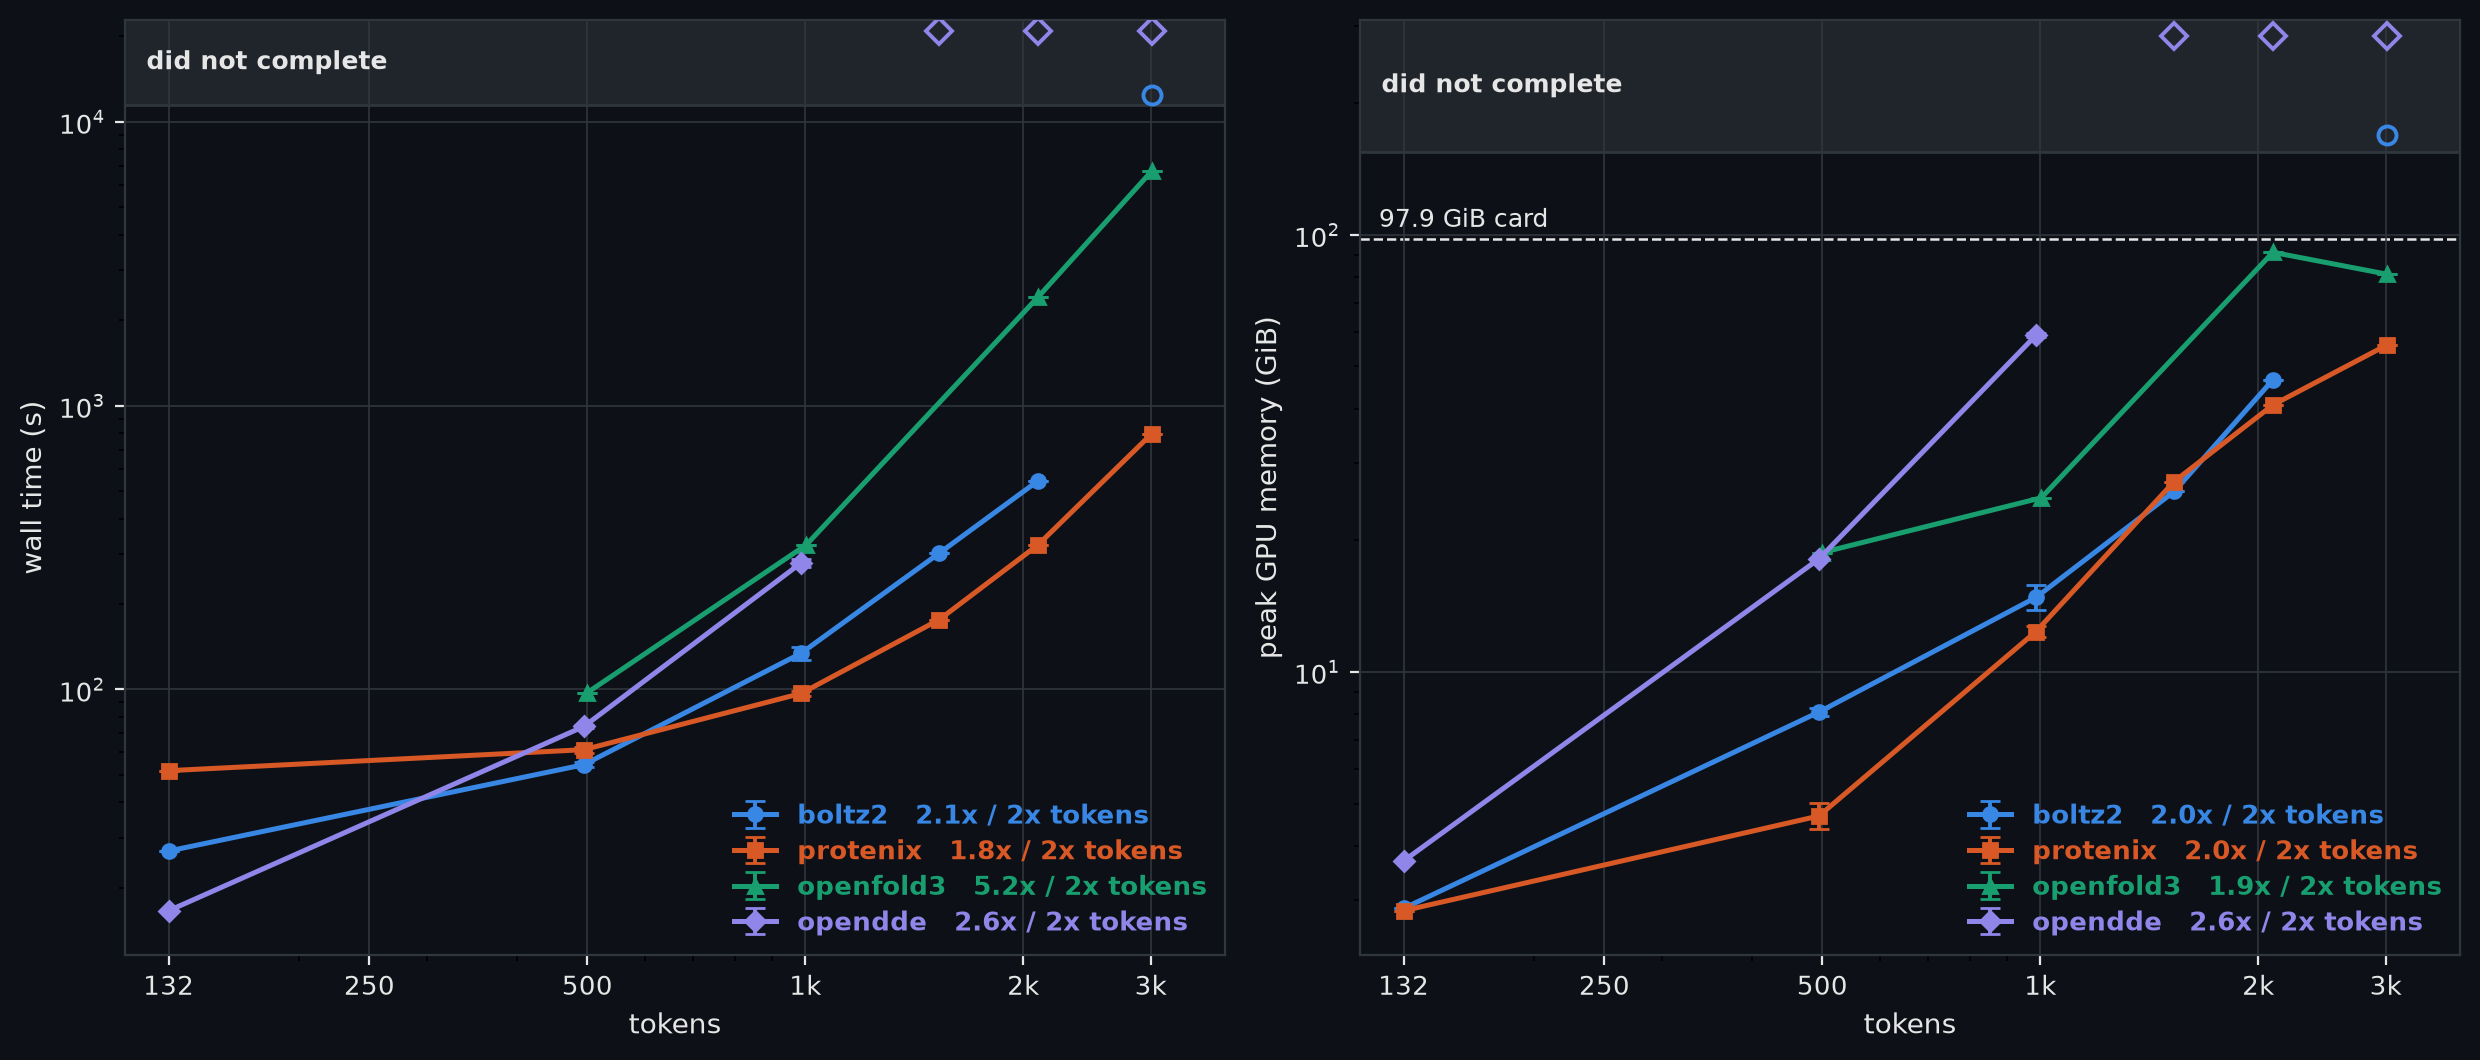
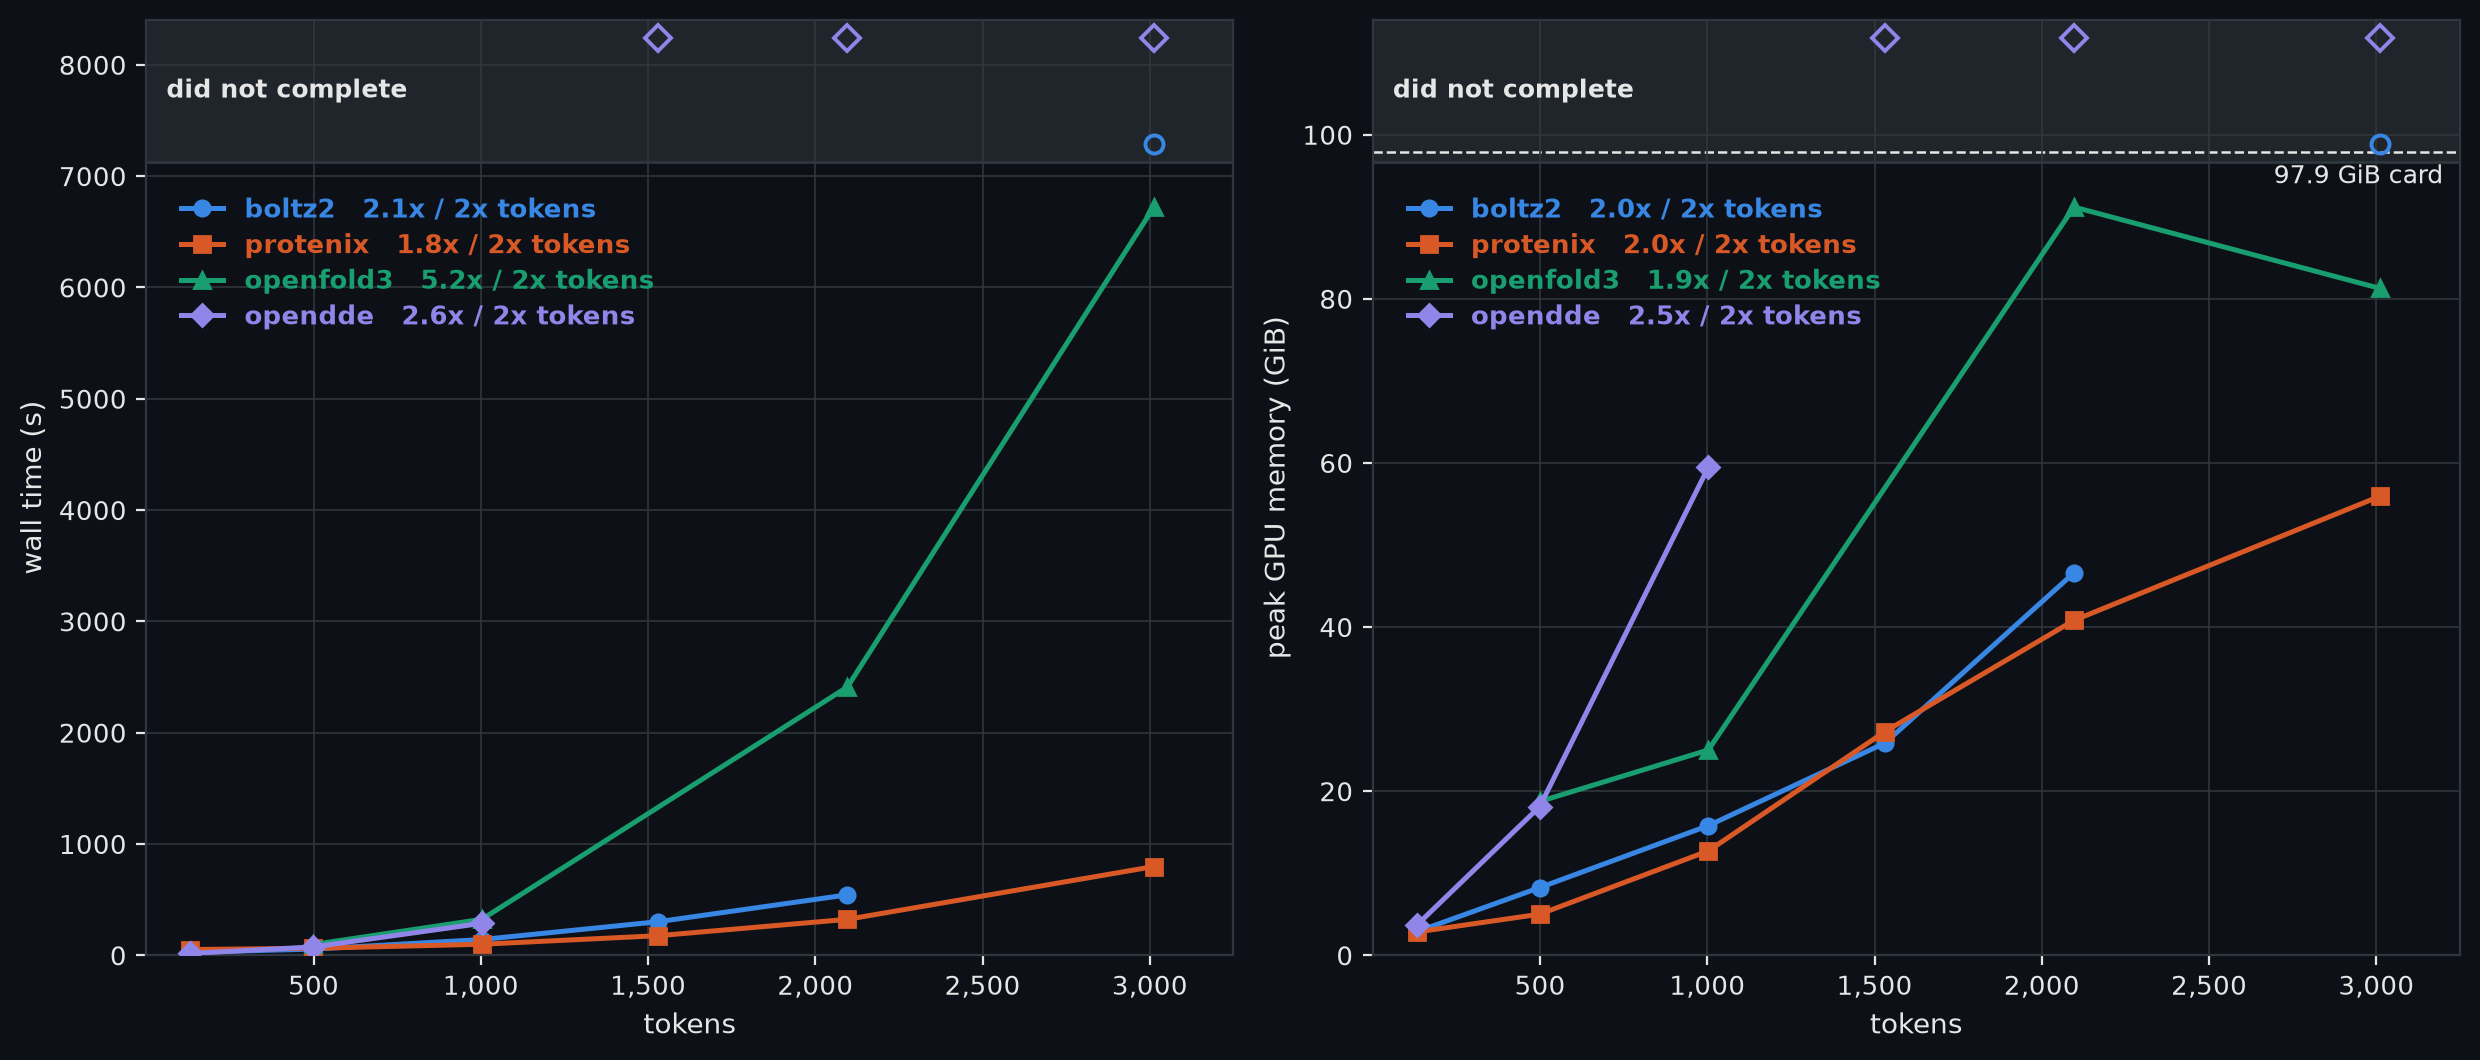
fix(docs): upstream growth on linear axes, and no error bars on single runs
Two corrections, both mine.

Log-log was the wrong choice for this figure. It is the right way to read an
exponent off a slope, and the wrong way to show that a cost grows: it turns
every curve into a straight line and flattens the one result worth seeing.
Linear axes put OpenFold3's upstream where it belongs -- 6,722 s at 3,012
tokens against Protenix's 797, visibly running away rather than sitting one
tidy slope above it.

And the error bars had to go. Nothing in this benchmark is run twice, so a bar
between 490 and 499 tokens was not a deviation over repeats -- it was two
different proteins, drawn with a glyph that reads as one. Where the sweeps
overlap in size the length sweep's point is now kept and the earlier sweep
contributes only 132 and 1,531 tokens, which it alone measured. Every plotted
point is one run of one sequence again.

The legend moves to the upper left with it: the lower right was empty under log
axes and is where three of the four curves now run.

diff --git a/docs/make_scaling_figure.py b/docs/make_scaling_figure.py
@@ -86,7 +86,7 @@ MARKERS = {"boltz2": "o", "protenix": "s", "openfold3": "^", "opendde": "D"}
 def load(results: list[Path]) -> dict:
     """{model: {impl: {"ok": [(tokens, wall, peak)], "failed": [tokens]}}}."""
     grouped: dict = {}
-    for directory in results:
+    for rank, directory in enumerate(results):
         for path in sorted(directory.glob("*.json")):
             body = json.loads(path.read_text())
             model, impl = body.get("model"), body.get("impl")
@@ -103,43 +103,41 @@ def load(results: list[Path]) -> dict:
             ):
                 side["failed"].append(length)
             else:
-                side["ok"].append((length, body["wall_s"], body["peak_mib"]))
+                side["ok"].append(
+                    (length, body["wall_s"], body["peak_mib"], rank)
+                )
     for entry in grouped.values():
         for side in entry.values():
             # A size measured in both sweeps keeps the later run, and a size
             # that failed once and completed later is not a failure.
-            side["ok"] = sorted({value[0]: value for value in side["ok"]}.values())
+            side["ok"] = _one_run_per_size(side["ok"])
             completed = {value[0] for value in side["ok"]}
             side["failed"] = sorted(set(side["failed"]) - completed)
     return grouped
 
 
-def replicates(points: list[tuple], tolerance: float = 0.06) -> list[list[tuple]]:
-    """Measurements at effectively the same length, grouped together.
+def _one_run_per_size(points: list[tuple], tolerance: float = 0.06) -> list[tuple]:
+    """One point per size, and every point a single real run.
 
-    The two sweeps used different sequences, and two of their sizes land within
-    a few percent of each other: 490 against 499, and 970 against 1,003. On a
-    log axis that is a couple of pixels, so drawn separately they smear into
-    one fat marker and the segment joining them becomes a near-vertical kink
-    that reads as a rendering glitch -- when what it actually shows is two
-    different proteins of the same length disagreeing by up to 14%.
+    The two sweeps used different proteins, and two of their sizes land within
+    a few percent of each other -- 490 against 499, and 970 against 1,003. Drawn
+    as separate points they overlap into one smeared marker; averaged they
+    become a statistic this benchmark never measured, since nothing here is run
+    more than once and a bar between two different proteins is not a standard
+    deviation.
 
-    Grouping them says that instead: one point per length, with the spread
-    drawn as a bar. That spread is worth keeping visible, because it is the
-    floor on how precisely any single point can be read.
+    So neither. Where the sweeps overlap in size the length sweep wins, and the
+    earlier sweep contributes only the sizes the length sweep does not have --
+    132 and 1,531 tokens. Every plotted point stays one run of one sequence.
     """
-    groups: list[list[tuple]] = []
-    for point in sorted(points):
-        if groups and point[0] <= groups[-1][0][0] * (1 + tolerance):
-            groups[-1].append(point)
-        else:
-            groups.append([point])
-    return groups
-
-
-def _geometric_mean(values) -> float:
-    values = list(values)
-    return math.exp(sum(math.log(value) for value in values) / len(values))
+    kept: list[tuple] = []
+    for point in sorted(points, key=lambda value: (value[0], value[3])):
+        if kept and point[0] <= kept[-1][0] * (1 + tolerance):
+            if point[3] < kept[-1][3]:
+                kept[-1] = point
+            continue
+        kept.append(point)
+    return kept
 
 
 def growth(fitted: float) -> str:
@@ -353,11 +351,11 @@ def render_upstream(grouped: dict, out: Path, *, theme: str) -> Path:
         del column
         # The failures live in a band of their own above the data, so a reader
         # never has to decide whether a marker up there is a measurement.
-        floor, ceiling = top * 1.7, top * 3.4
+        floor, ceiling = top * 1.06, top * 1.25
         axis.axhspan(floor, ceiling, color=grid, alpha=0.55, zorder=0, lw=0)
         axis.axhline(floor, color=grid, linewidth=1.0, zorder=1)
         axis.text(
-            123, (floor * ceiling) ** 0.5, "did not complete", color=fg,
+            60, (floor + ceiling) / 2, "did not complete", color=fg,
             fontsize=9, fontweight="bold", va="center", ha="left", zorder=5,
         )
 
@@ -370,32 +368,15 @@ def render_upstream(grouped: dict, out: Path, *, theme: str) -> Path:
             # One point per length, not per run: two sequences of the same
             # length are replicates of it, and drawing them as separate points
             # a couple of pixels apart made the curve look broken.
-            binned = [
-                (
-                    _geometric_mean(value[0] for value in group),
-                    _geometric_mean(value[index] for value in group),
-                    min(value[index] for value in group),
-                    max(value[index] for value in group),
-                )
-                for group in replicates(side["ok"])
-            ]
-            if binned:
-                line = axis.errorbar(
-                    [size for size, *_ in binned],
-                    [centre * scale for _, centre, *_ in binned],
-                    # Clamped: a group of one has centre == low == high, and
-                    # exp(log(x)) can land a float below x, which matplotlib
-                    # rejects as a negative error bar.
-                    yerr=[
-                        [max(0.0, centre - low) * scale
-                         for _, centre, low, _ in binned],
-                        [max(0.0, high - centre) * scale
-                         for _, centre, _, high in binned],
-                    ],
+            points = [(value[0], value[index]) for value in side["ok"]]
+            if points:
+                line, = axis.plot(
+                    [size for size, _ in points],
+                    [value * scale for _, value in points],
                     color=color, linewidth=1.8, marker=MARKERS[model],
-                    markersize=5, zorder=3, elinewidth=1.4, capsize=3.5,
+                    markersize=5.5, zorder=3,
                 )
-                fitted = exponent([(size, centre) for size, centre, *_ in binned])
+                fitted = exponent(points)
                 handles.append(line)
                 labels.append(
                     f"{model}" + (f"   {growth(fitted)} / 2x tokens" if fitted else "")
@@ -406,20 +387,22 @@ def render_upstream(grouped: dict, out: Path, *, theme: str) -> Path:
                 # the figure would report one failure where there were two.
                 axis.plot(
                     [tokens],
-                    [floor * (ceiling / floor) ** ((order + 0.5) / len(models))],
+                    [floor + (ceiling - floor) * (order + 0.5) / len(models)],
                     marker=MARKERS[model], markersize=6.5,
                     markerfacecolor="none", markeredgecolor=color,
                     markeredgewidth=1.4, zorder=4,
                 )
                 del slot
 
-        axis.set_xscale("log")
-        axis.set_yscale("log")
-        axis.set_xlim(115, 3800)
-        axis.set_ylim(None, ceiling)
-        axis.set_xticks([132, 250, 500, 1000, 2000, 3000])
-        axis.set_xticklabels(["132", "250", "500", "1k", "2k", "3k"])
-        axis.xaxis.set_minor_formatter(matplotlib.ticker.NullFormatter())
+        # Linear, not log-log. Log axes are for reading an exponent off a
+        # slope; they turn "the cost explodes" into four tidy straight lines,
+        # which is the opposite of what a growth plot is for. On linear axes
+        # OpenFold3's upstream visibly runs away from the other three, which is
+        # the finding.
+        axis.set_xlim(0, 3250)
+        axis.set_ylim(0, ceiling)
+        axis.set_xticks([500, 1000, 1500, 2000, 2500, 3000])
+        axis.set_xticklabels(["500", "1,000", "1,500", "2,000", "2,500", "3,000"])
         axis.set_xlabel("tokens", color=fg, fontsize=10)
         axis.set_ylabel(ylabel, color=fg, fontsize=10)
         axis.grid(color=grid, linewidth=0.6, zorder=0)
@@ -429,14 +412,16 @@ def render_upstream(grouped: dict, out: Path, *, theme: str) -> Path:
         if metric == "peak_mib":
             axis.axhline(97.9, color=fg, linewidth=0.9, linestyle="--", zorder=1)
             axis.text(
-                122, 101, "97.9 GiB card", color=fg, fontsize=9, va="bottom",
+                3200, 96.4, "97.9 GiB card", color=fg, fontsize=9,
+                va="top", ha="right",
             )
-        # Lower right: the only quadrant both panels leave empty, since every
-        # curve climbs left to right. Upper left is the failure band.
+        # Upper left, tucked under the failure band: on linear axes every
+        # curve leaves that corner empty, and the lower right -- free when
+        # these were log-log -- is now where three of the four lines run.
         legend = axis.legend(
-            handles, labels, loc="lower right", frameon=False, fontsize=9.5,
+            handles, labels, loc="upper left", frameon=False, fontsize=9.5,
             labelcolor="linecolor", handlelength=1.6, borderpad=0.2,
-            labelspacing=0.35,
+            labelspacing=0.35, bbox_to_anchor=(0.015, 0.83),
         )
         for text in legend.get_texts():
             text.set_fontweight("bold")

diff --git a/docs/benchmark.md b/docs/benchmark.md
@@ -106,14 +106,17 @@ faceted one does not: those runs measured the *same unmodified upstream
 repositories*, so their points belong on the same curve, while FoldJAX's own
 code changed between the two sweeps and its points would not.
 
-Every point is a different sequence. Two lengths were measured twice, by the
-two sweeps, on different proteins a few percent apart in size -- 490 against
-499, and 970 against 1,003. Those are drawn as one point per length with the
-two measurements as a bar, because a couple of pixels apart they smeared into a
-single fat marker and the segment joining them read as a broken curve. The bar
-is worth keeping: two proteins of the same length differ by up to 14% here
-(Protenix, 4.4 against 5.0 GiB), which is the floor on how precisely any single
-point can be read.
+**Linear axes, deliberately.** A log-log plot is for reading an exponent off a
+slope; it renders every one of these as a tidy straight line, which is the
+opposite of what a growth plot is for. On linear axes OpenFold3's upstream
+visibly runs away from the other three, and that is the finding.
+
+Every point is one run of one sequence. Nothing here is measured more than
+once, so there are no error bars -- where the two sweeps both covered a size
+(490 against 499, 970 against 1,003, different proteins a few percent apart)
+the length sweep's point is kept and the earlier sweep contributes only the
+sizes it alone has, 132 and 1,531. Averaging those pairs would have invented a
+statistic this benchmark never measured.
 
 - **OpenFold3's upstream is the steepest thing here, 5.2x per doubling**, and
   part of that steepness is why its memory curve bends down. Upstream tunes its
